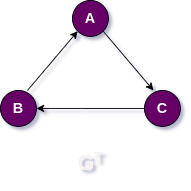
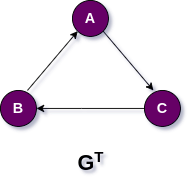
added image

Changed region(s): [[0.3927, 0.7853, 0.5497, 0.8901]]

diff --git a/atividade5.html b/atividade5.html
@@ -136,7 +136,7 @@ font-size: 20px;">
 
     Podemos fazer um exemplo simples. Considere o grafo: <br> <br>
 
-    <img src="https://github.com/torreslucs23/Atividade_grafos/blob/main/exemplo2.drawio.png?raw=true" alt="">
+    <img src="https://github.com/torreslucs23/Atividade_grafos/blob/main/exemplo3.png?raw=true" alt="">
 
   </p>
 
